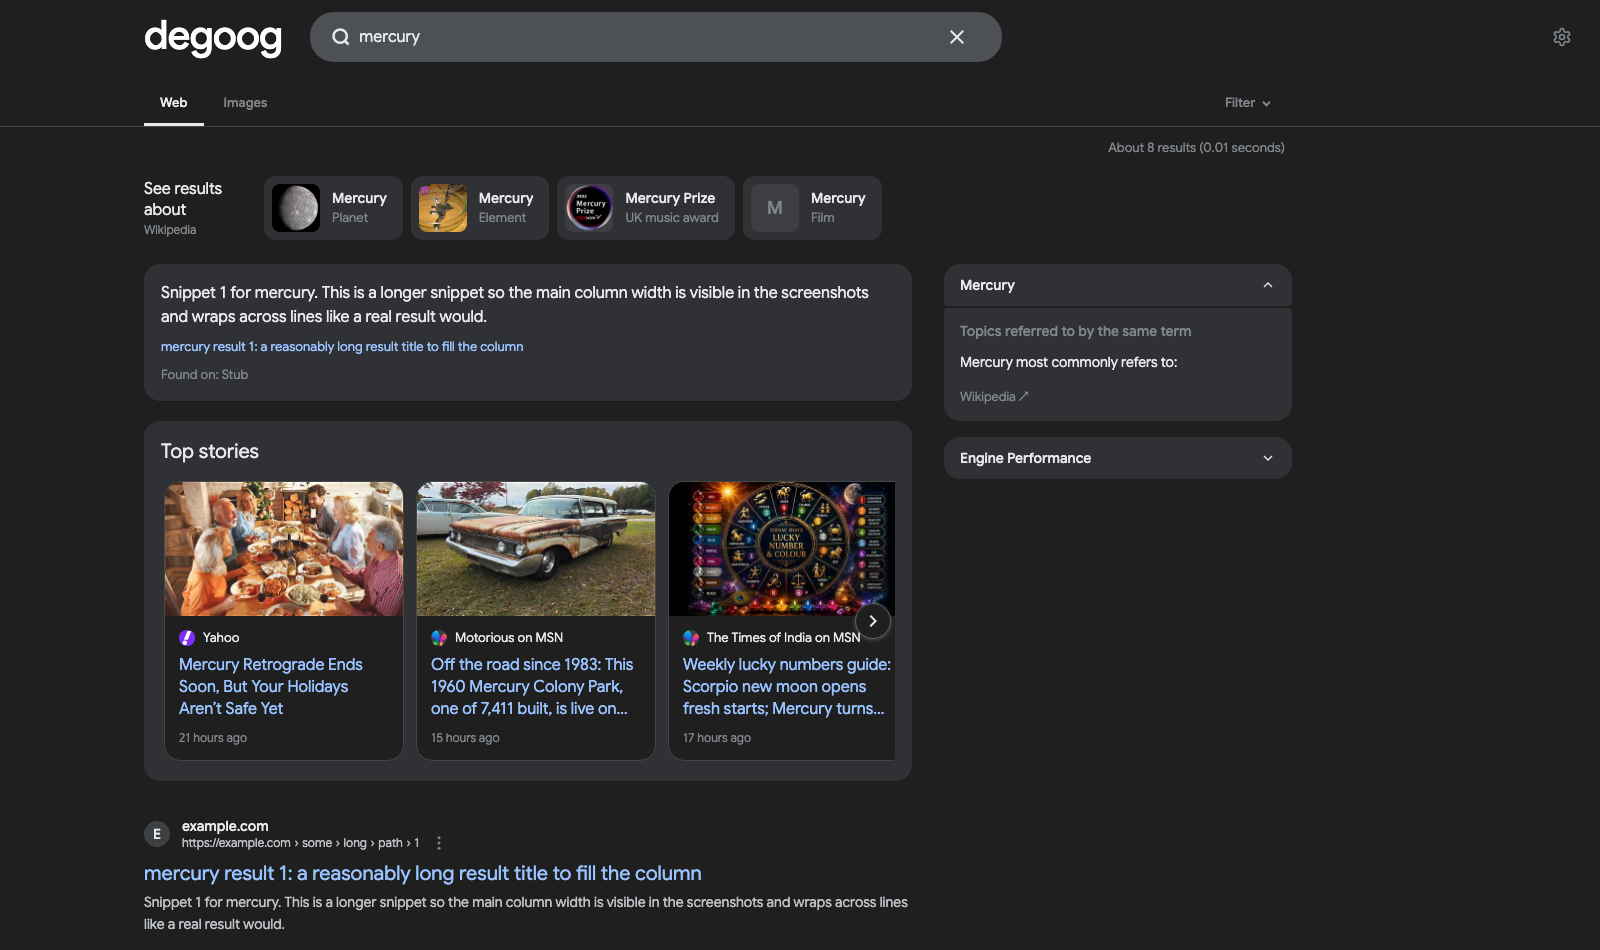
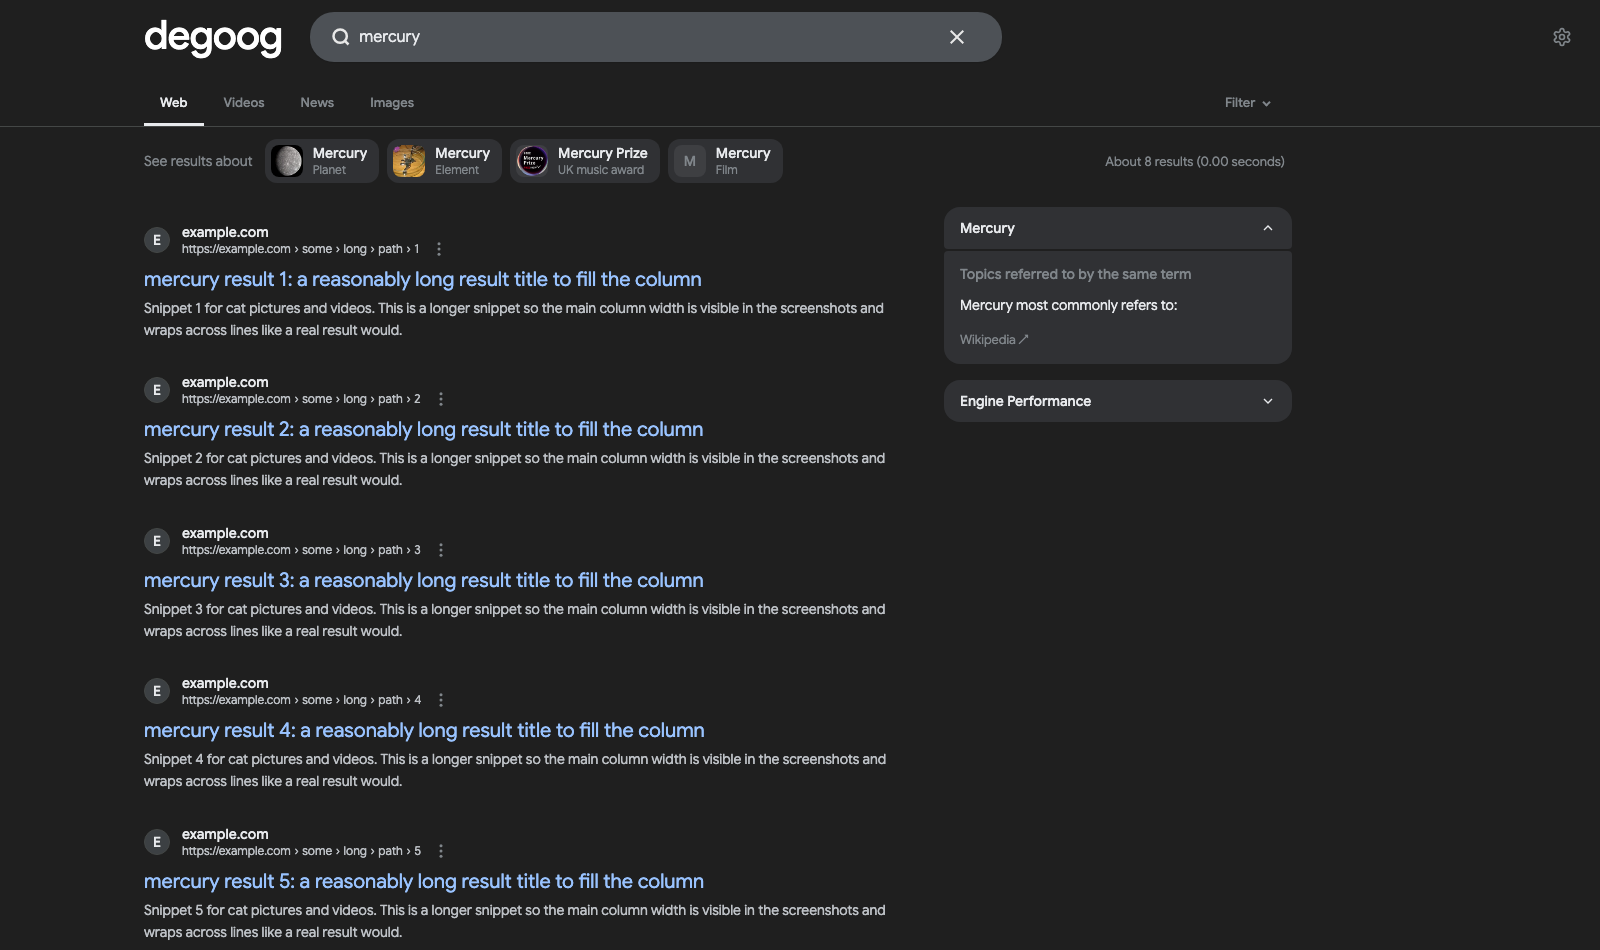
feat(see-results-about): slim one-line chips that never scroll on desktop
The row was about 70px tall: a three-line label (See results / about /
Wikipedia) beside 48px-thumbnail chips, with a chip cut off at the rail
edge and a horizontal scrollbar under it. It is now one slim toolbar
line.

- The label is one 14px line in the secondary text color at the start
  of the row. The visible "Wikipedia" link is gone; the heading carries
  a visually hidden "from Wikipedia" (new fromWikipedia string in all
  nine locales, replacing allMeanings).
- Chips are 44px tall: a 32px small-radius thumbnail (the letter
  placeholder stays), a 14px/500 name and a 12px secondary type, each
  one line with an ellipsis, at most 220px wide, on the light surface
  with the hover surface on hover.
- On wide rows the chip list wraps onto a clipped second line inside a
  fixed 44px height, so only chips that fully fit show and nothing
  scrolls. The focus ring is drawn inside the chip so the clip never
  hides it.
- Narrow containers (phones, the sidebar) put the label above a swipe
  row with the scrollbar hidden.

Version 1.2.0, with an updated README paragraph and Store screenshot.

diff --git a/plugins/see-results-about/style.css b/plugins/see-results-about/style.css
@@ -1,11 +1,15 @@
-/* See results about: Google's borderless row, a two-line label and then the
-   meaning chips. In the native full-width slot it keeps to the results rail. */
+/* See results about: one slim toolbar line, Google style. A one-line label,
+   then compact meaning chips. On wide rows only the chips that fully fit show
+   (the rest wrap onto a hidden second line); narrow containers swipe. In the
+   native full-width slot it keeps to the results rail. */
+/* Wrapping only takes effect where the label asks for its own line (narrow
+   containers below): the chips' zero flex-basis keeps wide rows on one line. */
 .sra-card {
   container-type: inline-size;
   display: flex;
   flex-wrap: wrap;
   align-items: center;
-  gap: 12px 16px;
+  gap: 8px 12px;
   width: 100%;
   max-width: var(--degoog-results-rail-inline-size, 652px);
   min-width: 0;
@@ -19,58 +23,37 @@
   order: -2;
 }
 
-.sra-card .sra-head {
-  display: flex;
-  flex: 0 0 6.5rem;
-  flex-direction: column;
-  align-items: flex-start;
-  gap: 2px;
-  min-width: 0;
-}
-
 .sra-card .sra-heading {
+  flex: none;
   margin: 0;
-  color: var(--text-primary);
-  font-size: 1rem;
-  font-weight: 400;
-  line-height: 1.3;
-  overflow-wrap: break-word;
-}
-
-.sra-card .sra-source {
-  border-radius: var(--theme-radius-sm, 8px);
   color: var(--text-secondary);
-  font-size: 0.75rem;
-  text-decoration: none;
+  font-size: 0.875rem;
+  font-weight: 400;
+  line-height: 1.25rem;
+  white-space: nowrap;
 }
 
-.sra-card .sra-source:hover {
-  color: var(--text-link);
-  text-decoration: underline;
+.sra-card .sra-hidden {
+  position: absolute;
+  width: 1px;
+  height: 1px;
+  overflow: hidden;
+  clip-path: inset(50%);
+  white-space: nowrap;
 }
 
-.sra-card .sra-source:focus-visible,
-.sra-card .sra-chip:focus-visible {
-  outline: 2px solid var(--primary);
-  outline-offset: 2px;
-}
-
-/* One row that scrolls when the meanings do not fit. The inset keeps focus
-   rings inside the scroller's clip edge. */
+/* One 44px line. Chips that do not fit wrap below it and stay hidden, so the
+   row never scrolls and never shows half a chip. */
 .sra-card .sra-chips {
   display: flex;
   flex: 1 1 0;
+  flex-wrap: wrap;
   gap: 8px;
+  height: 2.75rem;
   min-width: 0;
-  box-sizing: border-box;
-  margin: -4px;
-  padding: 4px;
-  overflow-x: auto;
-  overscroll-behavior-x: contain;
-  scroll-snap-type: x proximity;
-  scroll-padding-inline: 4px;
-  scrollbar-color: var(--border) transparent;
-  scrollbar-width: thin;
+  margin: 0;
+  padding: 0;
+  overflow: hidden;
   list-style: none;
 }
 
@@ -78,18 +61,18 @@
   display: flex;
   flex: none;
   min-width: 0;
-  max-width: 82%;
-  scroll-snap-align: start;
+  max-width: 100%;
 }
 
 .sra-card .sra-chip {
   display: flex;
   align-items: center;
-  gap: 12px;
+  gap: 10px;
   min-width: 0;
-  max-width: 240px;
+  max-width: 220px;
+  height: 2.75rem;
   box-sizing: border-box;
-  padding: 8px 16px 8px 8px;
+  padding: 6px 12px 6px 6px;
   border-radius: var(--theme-radius-md, 12px);
   background: var(--bg-light);
   color: var(--text-primary);
@@ -106,16 +89,22 @@
   background: var(--bg-hover);
 }
 
+/* Drawn inside the chip, so the row's clipping never hides it. */
+.sra-card .sra-chip:focus-visible {
+  outline: 2px solid var(--primary);
+  outline-offset: -2px;
+}
+
 .sra-card .sra-thumb {
   display: grid;
   flex: none;
   place-items: center;
-  width: 48px;
-  height: 48px;
+  width: 32px;
+  height: 32px;
   border-radius: var(--theme-radius-sm, 8px);
   background: color-mix(in srgb, var(--text-primary) 8%, transparent);
   color: var(--text-secondary);
-  font-size: 1.125rem;
+  font-size: 0.875rem;
   font-weight: 500;
   object-fit: cover;
 }
@@ -123,9 +112,7 @@
 .sra-card .sra-text {
   display: flex;
   flex-direction: column;
-  gap: 2px;
   min-width: 0;
-  line-height: 1.3;
 }
 
 .sra-card .sra-name,
@@ -138,28 +125,44 @@
 .sra-card .sra-name {
   font-size: 0.875rem;
   font-weight: 500;
+  line-height: 1.125rem;
 }
 
 .sra-card .sra-type {
   color: var(--text-secondary);
-  font-size: 0.8125rem;
+  font-size: 0.75rem;
+  line-height: 1rem;
 }
 
-/* Phones and the sidebar: the label sits above the swipeable row. */
+/* Phones and the sidebar: the label above a swipeable row with no
+   scrollbar. */
 @container (max-width: 520px) {
-  .sra-card .sra-head {
-    flex: 1 1 100%;
-    flex-direction: row;
-    align-items: baseline;
-    justify-content: space-between;
+  .sra-card .sra-heading {
+    flex-basis: 100%;
   }
 
   .sra-card .sra-chips {
-    flex-basis: calc(100% + 8px);
+    flex: 1 1 100%;
+    flex-wrap: nowrap;
+    height: auto;
+    overflow-x: auto;
+    overscroll-behavior-x: contain;
+    scroll-snap-type: x proximity;
     scrollbar-width: none;
   }
 
+  .sra-card .sra-chips::-webkit-scrollbar {
+    display: none;
+  }
+
+  .sra-card .sra-item {
+    max-width: 82%;
+    scroll-snap-align: start;
+  }
+}
+
+@media (prefers-reduced-motion: reduce) {
   .sra-card .sra-chip {
-    max-width: 100%;
+    transition: none;
   }
 }

diff --git a/plugins/see-results-about/index.js b/plugins/see-results-about/index.js
@@ -3,7 +3,7 @@
 
 // Fallback for cores that do not pass template.html.
 let template =
-  '<nav class="sra-card" aria-label="{{ t:plugin-see-results-about.heading }}"><div class="sra-head"><h2 class="sra-heading">{{ t:plugin-see-results-about.heading }}</h2><a class="sra-source" href="{{source_url}}" target="_blank" rel="noopener noreferrer" aria-label="{{ t:plugin-see-results-about.allMeanings }}" title="{{ t:plugin-see-results-about.allMeanings }}">Wikipedia</a></div><ul class="sra-chips">{{chips}}</ul></nav>';
+  '<nav class="sra-card" aria-label="{{ t:plugin-see-results-about.heading }}"><h2 class="sra-heading">{{ t:plugin-see-results-about.heading }}<span class="sra-hidden"> {{ t:plugin-see-results-about.fromWikipedia }}</span></h2><ul class="sra-chips">{{chips}}</ul></nav>';
 let pluginFetch = (...args) => fetch(...args);
 let lookupCache = null;
 let proxyImage = null;
@@ -542,7 +542,7 @@ function signedThumbnail(url, context) {
 function renderChip(chip, context) {
   const thumbnail = signedThumbnail(chip.thumbnail, context);
   const media = thumbnail
-    ? `<img class="sra-thumb" src="${escapeHtml(thumbnail)}" alt="" width="48" height="48" loading="lazy" decoding="async">`
+    ? `<img class="sra-thumb" src="${escapeHtml(thumbnail)}" alt="" width="32" height="32" loading="lazy" decoding="async">`
     : `<span class="sra-thumb sra-thumb--empty" aria-hidden="true">${escapeHtml(Array.from(chip.name)[0] || "")}</span>`;
   const href = `${basePath()}/search?q=${encodeURIComponent(chip.query)}`;
   return `<li class="sra-item"><a class="sra-chip" href="${escapeHtml(href)}"${chip.description ? ` title="${escapeHtml(chip.description)}"` : ""}>${media}<span class="sra-text"><span class="sra-name">${escapeHtml(chip.name)}</span><span class="sra-type">${escapeHtml(chip.type)}</span></span></a></li>`;
@@ -551,11 +551,8 @@ function renderChip(chip, context) {
 export function renderCard(found, lang, context) {
   if (!found?.chips?.length) return "";
   const chips = found.chips.map((chip) => renderChip(chip, context)).join("");
-  const source = `https://${lang}.wikipedia.org/wiki/${encodeURIComponent(found.page.replace(/ /g, "_"))}`;
-  // Function replacements keep "$&" in remote titles literal.
-  return template
-    .replace("{{chips}}", () => chips)
-    .replace("{{source_url}}", () => escapeHtml(source));
+  // A function replacement keeps "$&" in remote titles literal.
+  return template.replace("{{chips}}", () => chips);
 }
 
 export const slot = {

diff --git a/plugins/see-results-about/template.html b/plugins/see-results-about/template.html
@@ -1,7 +1,4 @@
 <nav class="sra-card" aria-label="{{ t:plugin-see-results-about.heading }}">
-  <div class="sra-head">
-    <h2 class="sra-heading">{{ t:plugin-see-results-about.heading }}</h2>
-    <a class="sra-source" href="{{source_url}}" target="_blank" rel="noopener noreferrer" aria-label="{{ t:plugin-see-results-about.allMeanings }}" title="{{ t:plugin-see-results-about.allMeanings }}">Wikipedia</a>
-  </div>
+  <h2 class="sra-heading">{{ t:plugin-see-results-about.heading }}<span class="sra-hidden"> {{ t:plugin-see-results-about.fromWikipedia }}</span></h2>
   <ul class="sra-chips">{{chips}}</ul>
 </nav>

diff --git a/README.md b/README.md
@@ -276,9 +276,12 @@ Russian, Ukrainian, Chinese, Japanese, Dutch, or Polish) and otherwise falls
 back to English. Meanings are ranked by their last 30 days of pageviews.
 Lookups are cached for a week, thumbnails go through degoog's image proxy, and
 the chips load separately, so they never hold up search results. Like Google,
-the chips sit in a borderless row at the top of the results, lined up with the
-results column (degoog 0.24 or newer). They can be moved into a panel above or
-below the results, or above the sidebar, in Settings → Plugins.
+the chips sit in one slim line at the top of the results, lined up with the
+results column (degoog 0.24 or newer); on wide screens only the chips that fully
+fit are shown, and phones swipe through them. In LiterallyGoogle and
+LiterallyApple the line shares the row with the results count. The chips can be
+moved into a panel above or below the results, or above the sidebar, in
+Settings → Plugins.
 
 </details>
 
